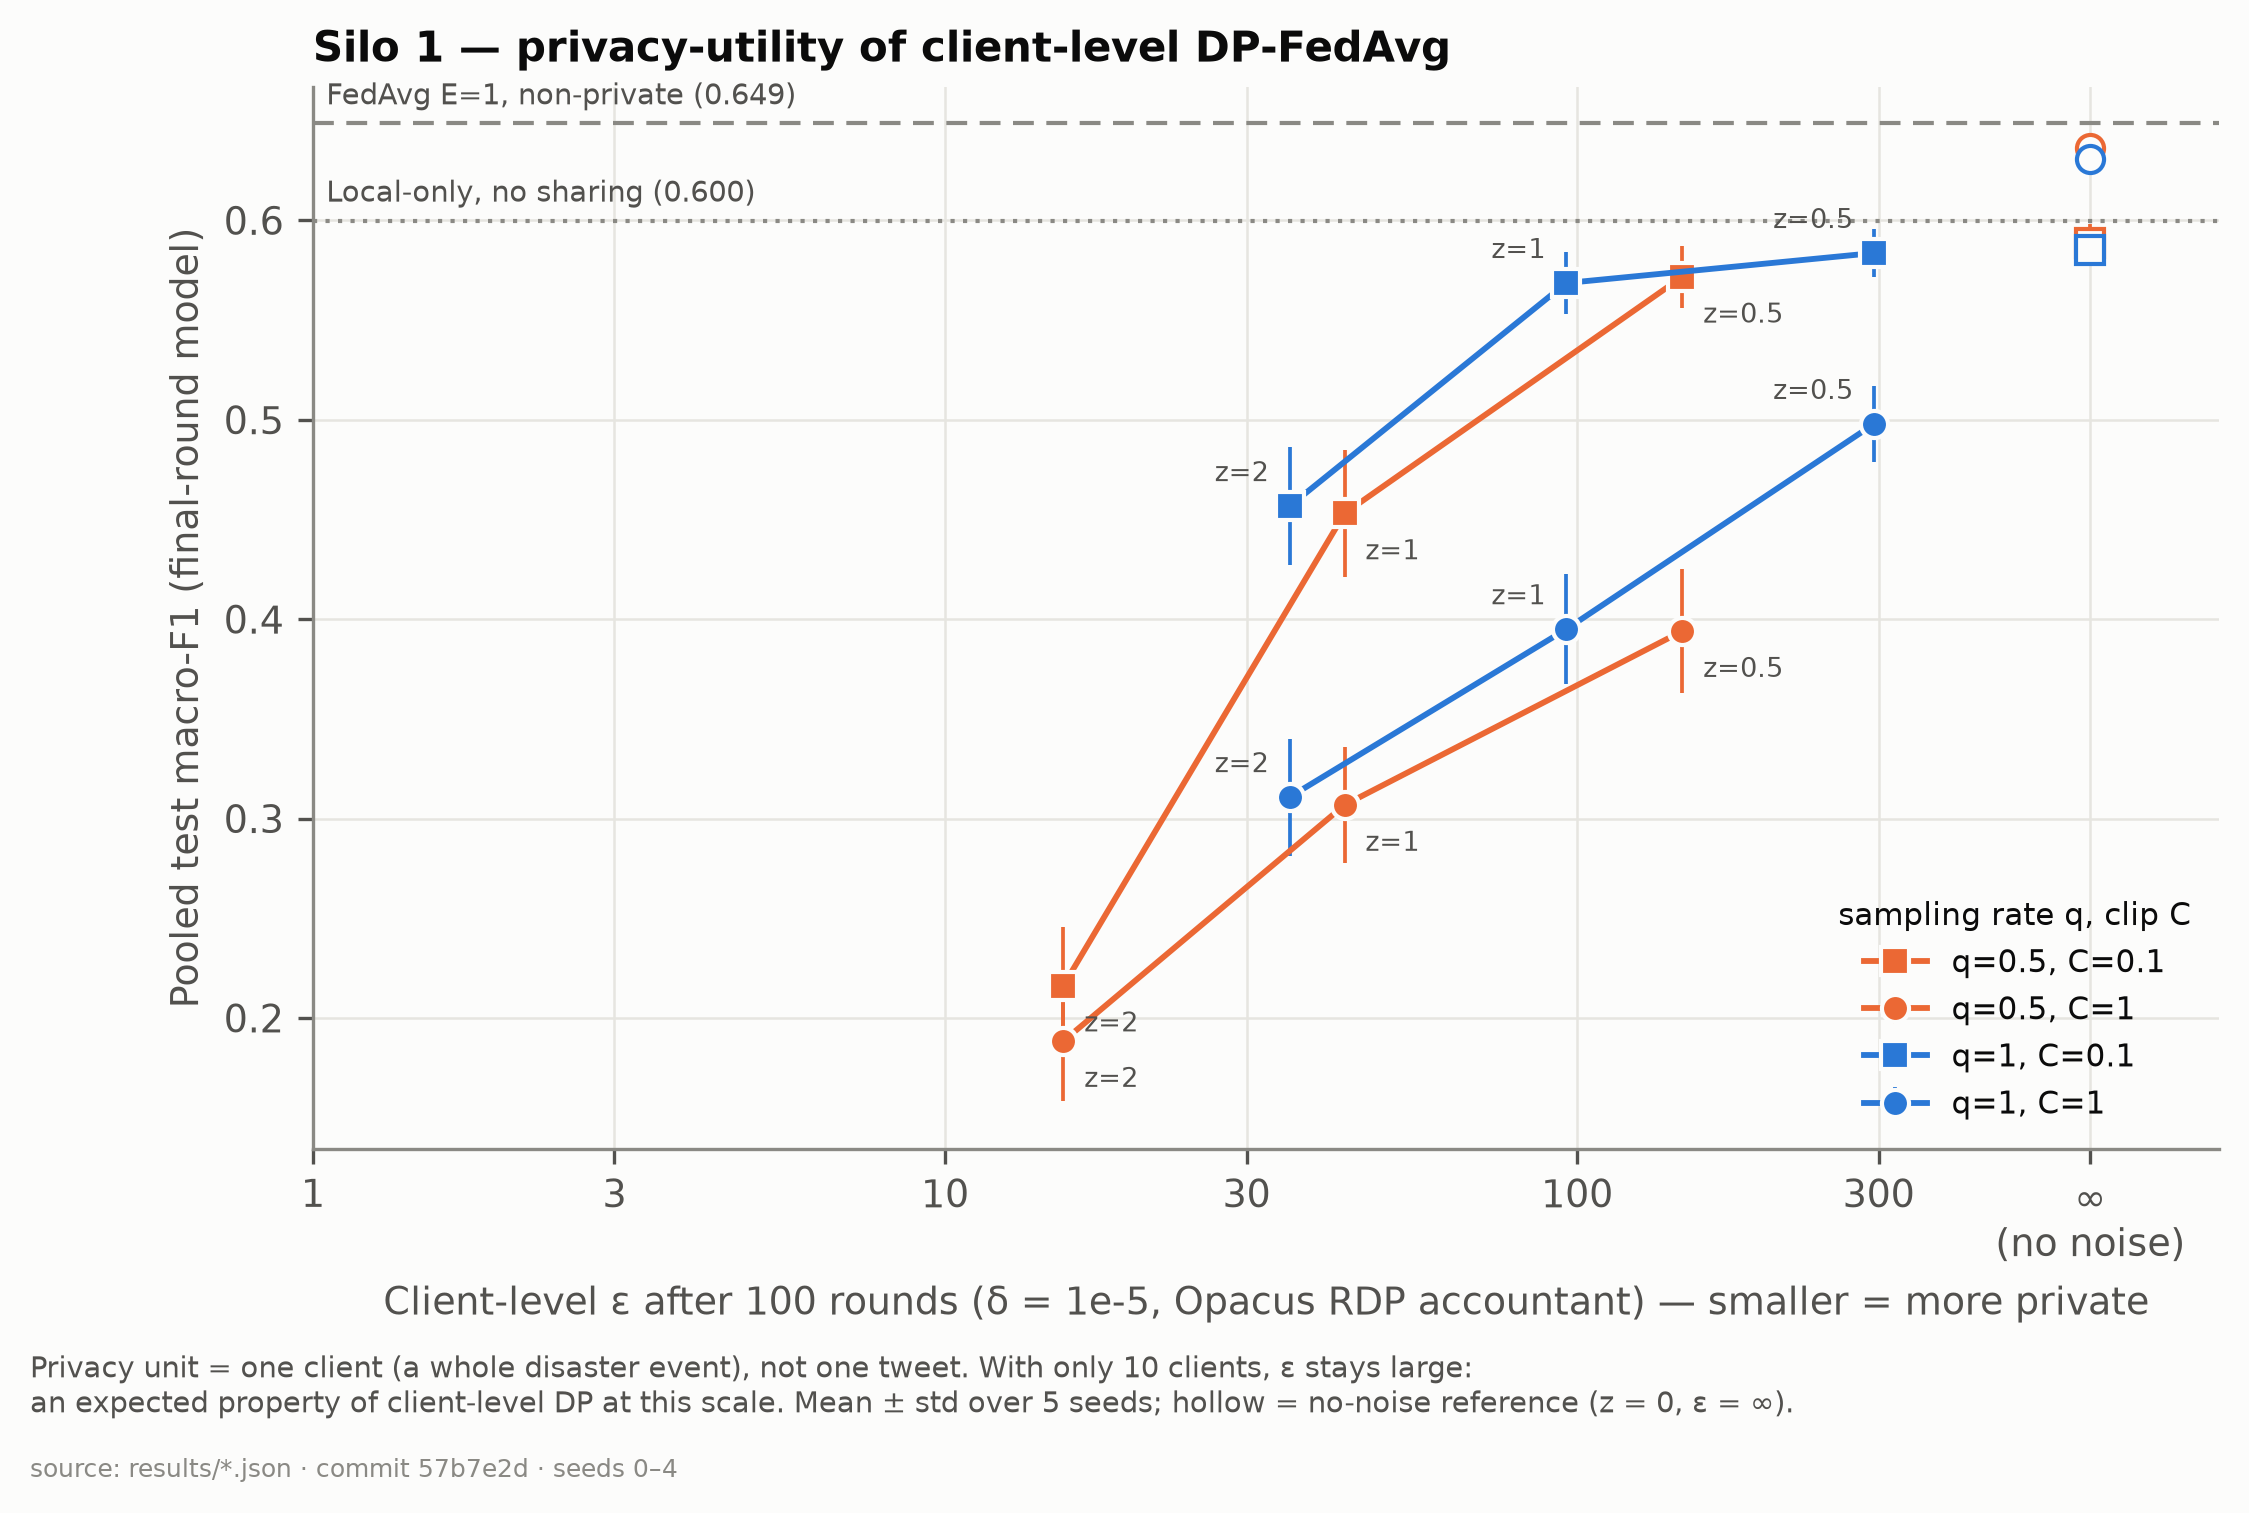
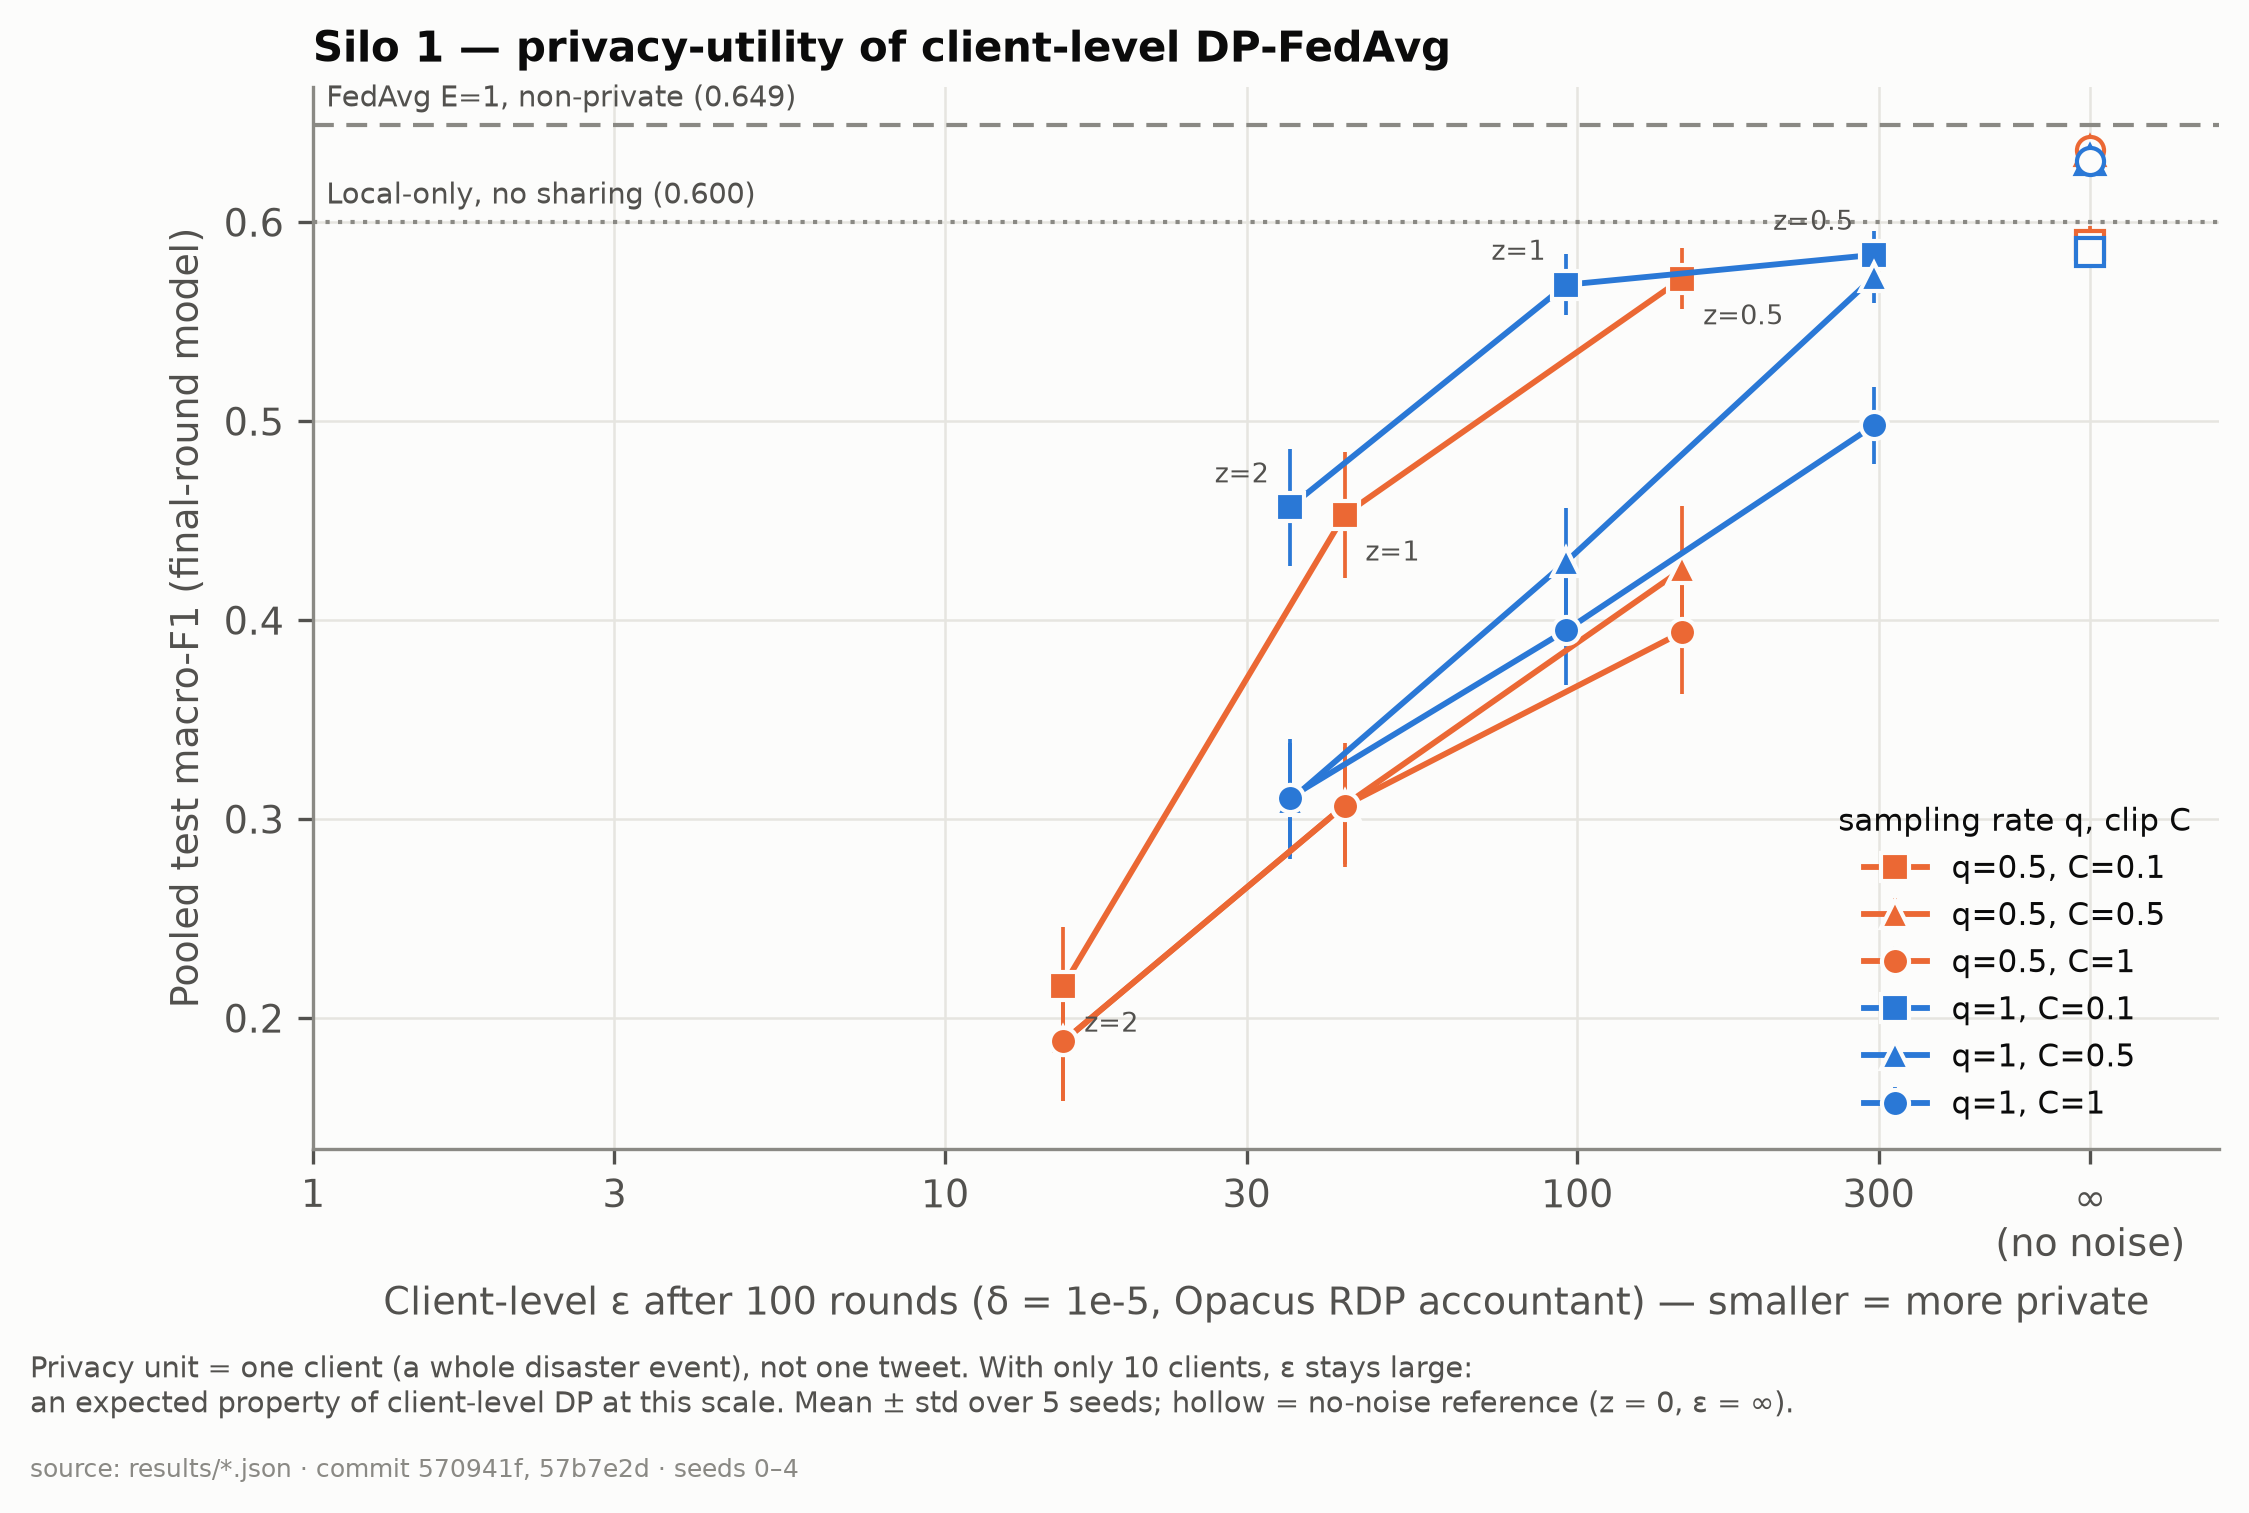
Figure f: calibrated clip C = 0.5 added; z labelled once per (q, epsilon)
C values are read from the DP grid plus results/silo1_dp/clip_calibration; every C
shares epsilon at a given (z, q), so z is labelled on the C = 0.1 line only and the
legend lists C in ascending order. Generated from results JSON only.

diff --git a/experiments/make_figures.py b/experiments/make_figures.py
@@ -353,7 +353,7 @@ def fig_f() -> Path:
     eps_max = 0.0
     used = []
     for q in DP_Q:
-        for C in DP_C:
+        for C in sorted(DP_C):
             xs, ys, es = [], [], []
             for z in DP_Z:
                 rs = runs("silo1_dp", _dp_name(z, C, q))
@@ -361,6 +361,8 @@ def fig_f() -> Path:
                 m, s = ms([r["pooled_test_macro_f1"] for r in rs])
                 xs.append(eps); ys.append(m); es.append(s)
                 eps_max = max(eps_max, eps)
+                if C != min(DP_C):          # every C shares ε at a given (z, q): label z once, on the C = 0.1 line
+                    continue
                 # q = 1 labels above-left, q = 0.5 below-right: the two series sit close together at ε ≈ 35-45
                 off, ha = ((-5, 6), "right") if q == 1.0 else ((5, -11), "left")
                 ax.annotate(f"z={z:g}", (eps, m), xytext=off, textcoords="offset points", ha=ha, fontsize=6.5,
